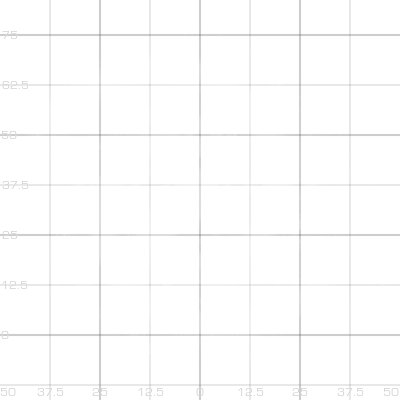
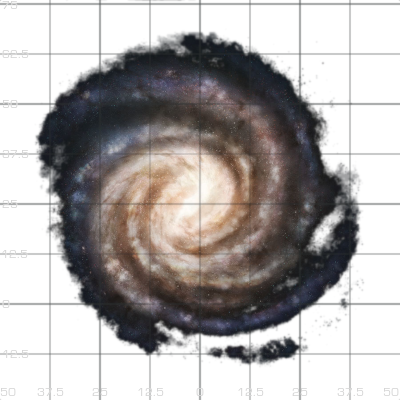
Corrected galaxy map location
Corrected coordinates of location in the galaxy, added a more accurate galaxy graphic

diff --git a/panel.php b/panel.php
@@ -68,7 +68,7 @@ if (count($j) > 0)
 </td>
 <td valign=middle align=left width=50%>
 <div id="glxmap" style="z-index: 98; position: relative; solid; width: 400px; background-color: #151515; border-radius: 10px;"><img src="img/galaxyBackgroundV3.png" style="width:400px; height:400px;">
-<div class="ed_sol_pointer" style="position: absolute; left: 197px; top: 332px;">
+<div class="ed_sol_pointer" style="position: absolute; left: 197px; top: 301px;">
 </div>
 <?php $loc = count($p) - 1; ?>
 <div class="ed_galmap_pointer" style="position: absolute; left: <?php echo intval($p[$loc][0]);?>px; top: <?php echo intval($p[$loc][1]);?>px;"></div>

diff --git a/location.php b/location.php
@@ -21,7 +21,7 @@ function ED_getLocation()
 	{ $r[] = ED_getContentFromEvent("ApproachBody", "Body"); }
 	
 	$sol_x = 200 - 5;
-	$sol_y = 335 - 5;
+	$sol_y = 304 - 5;
 	
 	$xp = $r[1][0] / 400; $yp = $r[1][2] / 400; 
 	$posptr_x = $sol_x + $xp;
